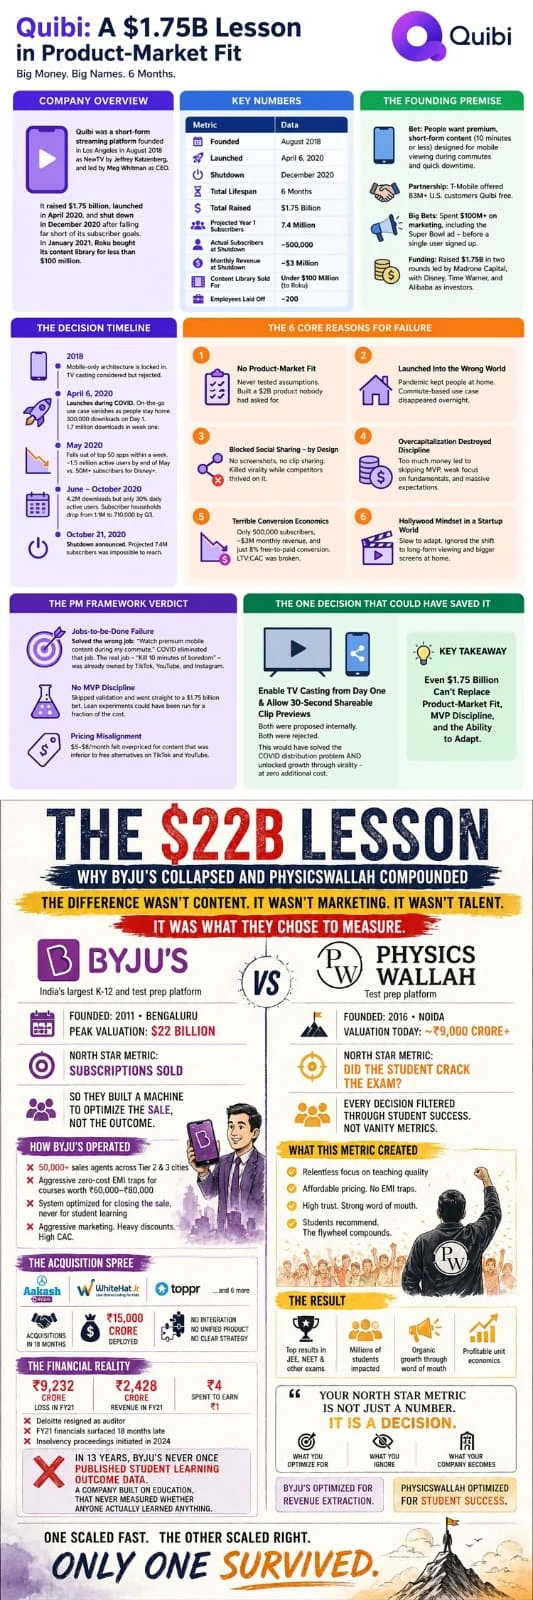
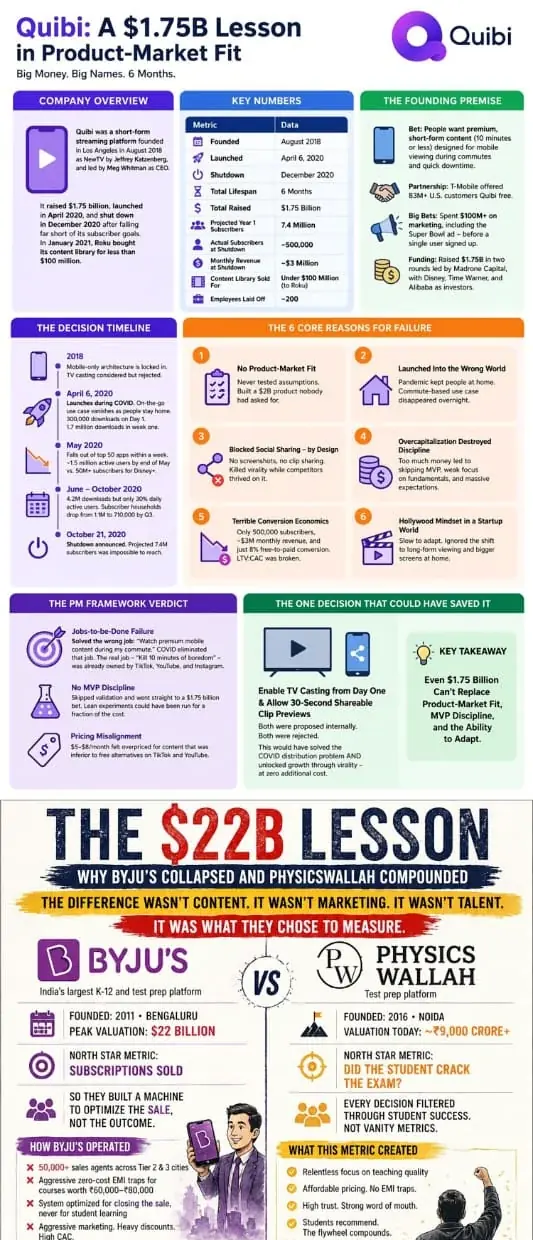
Load the Autopsy infographic early and halve its size
The Quibi/Byju's infographic was lazy-loaded, so its download only began
when the section scrolled into view, and the clip-path wipe could open on
an empty frame. It was also 192 KB with about a quarter of its height
cropped away by the card.

- Crop to the visible part (533x1240) and recompress: 192 KB -> 99 KB
- Load eagerly at low fetch priority so it arrives without competing
  with the hero; set intrinsic width/height
- data-clip reveals now wait for the image to decode before playing

diff --git a/src/components/OptimizedPicture.tsx b/src/components/OptimizedPicture.tsx
@@ -5,30 +5,41 @@ type OptimizedPictureProps = {
   alt: string;
   className?: string;
   loading?: "eager" | "lazy";
+  /** Intrinsic size of the file, so the browser knows the aspect ratio before it arrives. */
+  width?: number;
+  height?: number;
+  /** "low" lets a below-the-fold image download early without competing with the hero. */
+  priority?: "high" | "low" | "auto";
 };
 
 export function OptimizedPicture({
   image,
   alt,
   className = "",
-  loading = "lazy"
+  loading = "lazy",
+  width,
+  height,
+  priority
 }: OptimizedPictureProps) {
+  // lowercase attribute: React 18 does not know `fetchPriority` yet
+  const extra = { width, height, ...(priority ? { fetchpriority: priority } : {}) };
+
   if (typeof image === "string") {
-    return <img className={className} src={image} alt={alt} loading={loading} />;
+    return <img className={className} src={image} alt={alt} loading={loading} decoding="async" {...extra} />;
   }
 
   const { avif, webp, fallback } = image;
   const hasSources = Boolean(avif || (webp && webp !== fallback));
 
   if (!hasSources) {
-    return <img className={className} src={fallback} alt={alt} loading={loading} />;
+    return <img className={className} src={fallback} alt={alt} loading={loading} decoding="async" {...extra} />;
   }
 
   return (
     <picture>
       {avif ? <source srcSet={avif} type="image/avif" /> : null}
       {webp ? <source srcSet={webp} type="image/webp" /> : null}
-      <img className={className} src={fallback} alt={alt} loading={loading} />
+      <img className={className} src={fallback} alt={alt} loading={loading} decoding="async" {...extra} />
     </picture>
   );
 }

diff --git a/src/hooks/useScrollAnimations.ts b/src/hooks/useScrollAnimations.ts
@@ -144,25 +144,29 @@ export function useScrollAnimations(scope: RefObject<HTMLElement>) {
       });
 
       all("[data-clip]").forEach((element) => {
-        gsap.fromTo(
+        const image = element.querySelector("img");
+        const reveal = gsap.timeline({ paused: true });
+
+        reveal.fromTo(
           element,
           { clipPath: "inset(0% 100% 0% 0%)" },
-          {
-            clipPath: "inset(0% 0% 0% 0%)",
-            duration: 1.3,
-            ease: "power3.inOut",
-            scrollTrigger: once(element, "top 85%")
-          }
+          { clipPath: "inset(0% 0% 0% 0%)", duration: 1.3, ease: "power3.inOut" },
+          0
         );
-        const image = element.querySelector("img");
 
         if (image) {
-          gsap.fromTo(
-            image,
-            { scale: 1.25 },
-            { scale: 1, duration: 1.6, ease: "power3.out", scrollTrigger: once(element, "top 85%") }
-          );
+          reveal.fromTo(image, { scale: 1.25 }, { scale: 1, duration: 1.6, ease: "power3.out" }, 0);
         }
+
+        // Never wipe open an empty frame: wait until the picture has loaded and decoded.
+        ScrollTrigger.create({
+          ...once(element, "top 85%"),
+          onEnter: () => {
+            const ready = image && !image.complete ? image.decode() : Promise.resolve();
+
+            ready.catch(() => undefined).then(() => reveal.play());
+          }
+        });
       });
 
       all("[data-rise]").forEach((box) => {

diff --git a/src/sections/AutopsySection.tsx b/src/sections/AutopsySection.tsx
@@ -33,6 +33,10 @@ export function AutopsySection() {
           <OptimizedPicture
             image={portraits.atmospheric}
             alt="Quibi and Byju's product failure infographic from The Autopsy series"
+            width={533}
+            height={1240}
+            loading="eager"
+            priority="low"
           />
         </div>
       </div>
